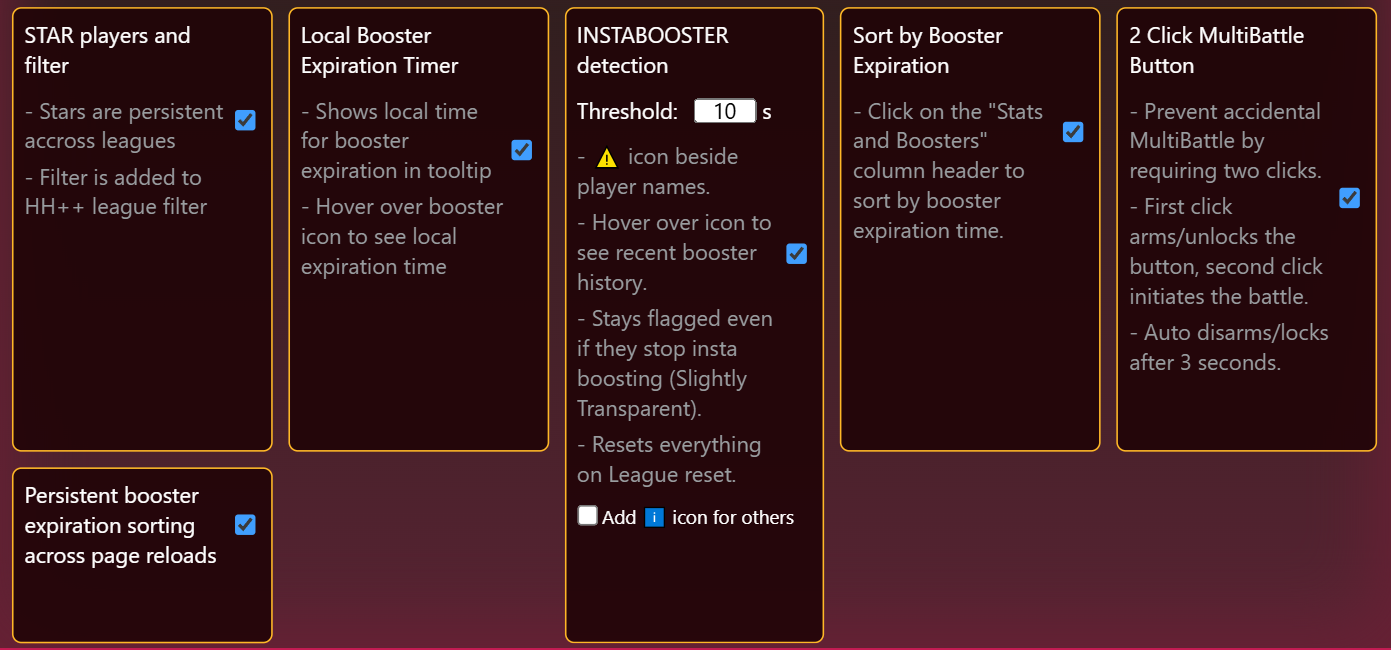
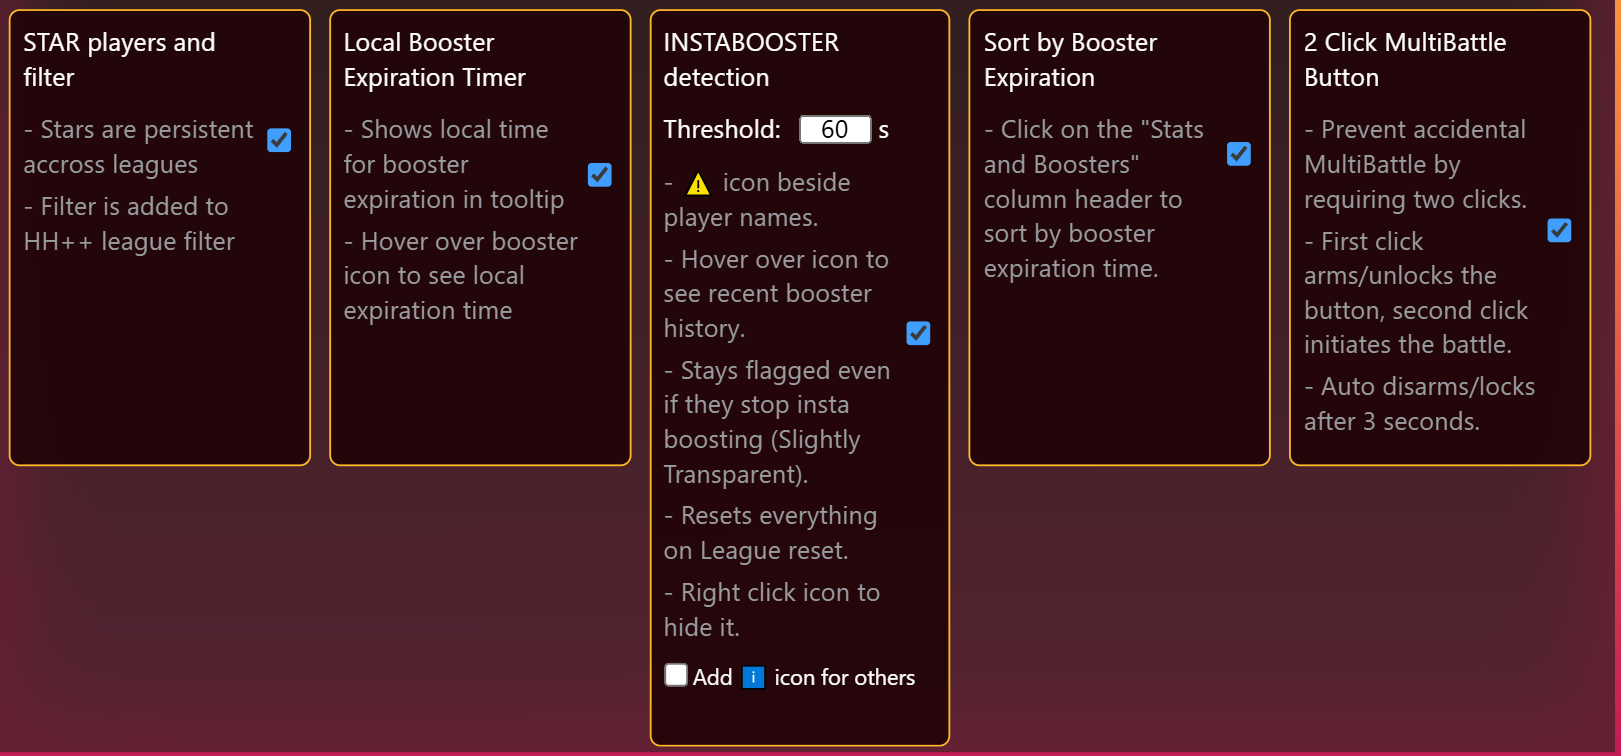
fix wrong format and remove dups

Changed region(s): [[0.0, 0.0, 1.0, 1.0]]

diff --git a/several_leagues.user.js b/several_leagues.user.js
@@ -338,6 +338,57 @@ async function severalLeagues() {
     // ------------ Build Booster Map and InstaBooster Detection ------------
     function buildBoosterExpiryMap(CONFIG) {
 
+        function dedupeHistory(history) {
+            /* Deduplicate booster history data to save space */
+
+            const cleaned = {};
+
+            for (const playerId in history) {
+
+                const batches = history[playerId];
+                const uniqueBatches = [];
+
+                for (const batch of batches) {
+
+                    // ---- Remove empty batches ----
+                    if (!batch.length) continue;
+
+                    // ---- Deduplicate entire batches ----
+                    let inserted = false;
+
+                    for (let i = 0; i < uniqueBatches.length; i++) {
+
+                        const existing = uniqueBatches[i];
+
+                        const same =
+                            existing.length === batch.length &&
+                            isBatchSubset(existing, batch);
+
+                        if (!same) continue;
+
+                        // Upgrade null-id batch
+                        if (batchHasNullIds(existing) && batchHasRealIds(batch)) {
+                            uniqueBatches[i] = batch;
+                        }
+
+                        inserted = true;
+                        break;
+                    }
+
+                    if (!inserted) {
+                        uniqueBatches.push(batch);
+                    }
+
+                }
+
+                if (uniqueBatches.length) {
+                    cleaned[playerId] = uniqueBatches;
+                }
+            }
+
+            return cleaned;
+        }
+
         function normalizeHistory(history) {
             /* For backwords compatibility, we support two formats in the history:
         
@@ -400,25 +451,52 @@ async function severalLeagues() {
             GM_setValue(HISTORY_KEY, data);
         }
 
-        function boosterKey(b) {
-            // Prefer ID when available, fallback to lifetime for old data
-            return b.id != null ? `id:${b.id}` : `t:${b.lifetime}`;
-        }
+        function makeBatchIndex(batch) {
+            const byId = new Map();
+            const byTime = new Map();
 
-        function makeBatchSet(batch) {
-            const set = new Set();
             for (const b of batch) {
-                set.add(boosterKey(b));
+                if (b.id != null) byId.set(b.id, b);
+                byTime.set(b.lifetime, b);
             }
-            return set;
+
+            return { byId, byTime };
         }
 
-        function isSubsetSet(a, b) {
-            // is set A ⊆ set B
-            for (const v of a) {
-                if (!b.has(v)) return false;
+        function boosterExistsInBatch(booster, batchIndex) {
+
+            // Prefer ID match
+            if (booster.id != null && batchIndex.byId.has(booster.id)) {
+                return true;
             }
+
+            // Fallback to lifetime match (old data compatibility)
+            if (batchIndex.byTime.has(booster.lifetime)) {
+                return true;
+            }
+
+            return false;
+        }
+
+        function isBatchSubset(oldBatch, newBatch) {
+
+            const newIndex = makeBatchIndex(newBatch);
+
+            for (const oldBooster of oldBatch) {
+                if (!boosterExistsInBatch(oldBooster, newIndex)) {
+                    return false;
+                }
+            }
+
             return true;
+        }
+
+        function batchHasNullIds(batch) {
+            return batch.some(b => b.id == null);
+        }
+
+        function batchHasRealIds(batch) {
+            return batch.some(b => b.id != null);
         }
 
         const l = opponents_list;
@@ -426,7 +504,9 @@ async function severalLeagues() {
 
         // Load and normalize history in case data is in old format
         const historyData = loadHistory();
-        historyData.history = normalizeHistory(historyData.history || {});
+        historyData.history = dedupeHistory(
+            normalizeHistory(historyData.history || {})
+        );
 
         window.boosterExpiries = new Map();
         const instaPlayers = [];
@@ -470,13 +550,17 @@ async function severalLeagues() {
             // Take last 4 expired batches from history
             const now = server_now_ts;
             const expiredBatches = playerHistory
-                .filter(batch => batch[batch.length - 1] <= now)
+                .filter(batch =>
+                    batch.length &&
+                    Number.isFinite(batch[batch.length - 1].lifetime) &&
+                    batch[batch.length - 1].lifetime <= now
+                )
                 .slice(-4);
 
             let instaFlag = false;
             if (expiredBatches.length) {
                 for (const expiredBatch of expiredBatches) {
-                    const lastExpiredBatchEnd = expiredBatch[0]; // earliest in the expired batch
+                    const lastExpiredBatchEnd = expiredBatch[0].lifetime; // earliest in the expired batch
                     for (const batch of batches) {
                         const batchStart = batch[0].lifetime;
                         if (batchStart - lastExpiredBatchEnd <= 86400 + instaBoosterThreshold && batchStart - lastExpiredBatchEnd >= 86400) {
@@ -504,22 +588,34 @@ async function severalLeagues() {
                     lifetime: b.lifetime
                 }));
 
-                const newSet = makeBatchSet(newBatch);
-
                 let exists = false;
 
                 for (let i = storedBatches.length - 1; i >= 0; i--) {
-                    const oldBatch = storedBatches[i];
-                    const oldSet = makeBatchSet(oldBatch);
 
-                    // Exact match → skip insert
-                    if (oldSet.size === newSet.size && isSubsetSet(oldSet, newSet)) {
+                    const oldBatch = storedBatches[i];
+
+                    const sameContent =
+                        oldBatch.length === newBatch.length &&
+                        isBatchSubset(oldBatch, newBatch);
+
+                    const partialContent =
+                        oldBatch.length < newBatch.length &&
+                        isBatchSubset(oldBatch, newBatch);
+
+                    // ---- 1) Upgrade null-id batch ----
+                    if (sameContent && batchHasNullIds(oldBatch) && batchHasRealIds(newBatch)) {
+                        storedBatches.splice(i, 1);
+                        continue;
+                    }
+
+                    // ---- 2) True duplicate ----
+                    if (sameContent) {
                         exists = true;
                         break;
                     }
 
-                    // Old batch is partial snapshot → delete it
-                    if (oldSet.size < newSet.size && isSubsetSet(oldSet, newSet)) {
+                    // ---- 3) Remove partial snapshot ----
+                    if (partialContent) {
                         storedBatches.splice(i, 1);
                     }
                 }
@@ -527,6 +623,7 @@ async function severalLeagues() {
                 if (!exists) {
                     storedBatches.push(newBatch);
                 }
+
             });
         }
 
@@ -594,7 +691,7 @@ async function severalLeagues() {
 
             const lastBatches = playerHistory.slice(-maxBatches);
             const batchTexts = lastBatches.map((batch, index) => {
-                const times = batch.map(ts => fmt(ts)).join(', ');
+                const times = batch.map(b => fmt(b.lifetime)).join(', ');
                 return `<div style="color:${colors[index % colors.length]}; margin-bottom:4px;">
                     <strong>Batch ${index + 1}:</strong>
                     <span style="color:${colors[index % colors.length]}; padding-left:10px;">${times}</span>
@@ -878,7 +975,7 @@ async function severalLeagues() {
             });
         }
     }
-    
+
     function SortPersistenceInit() {
         const headerRow = document.querySelector('.data-row.head-row');
         if (!headerRow) return;
